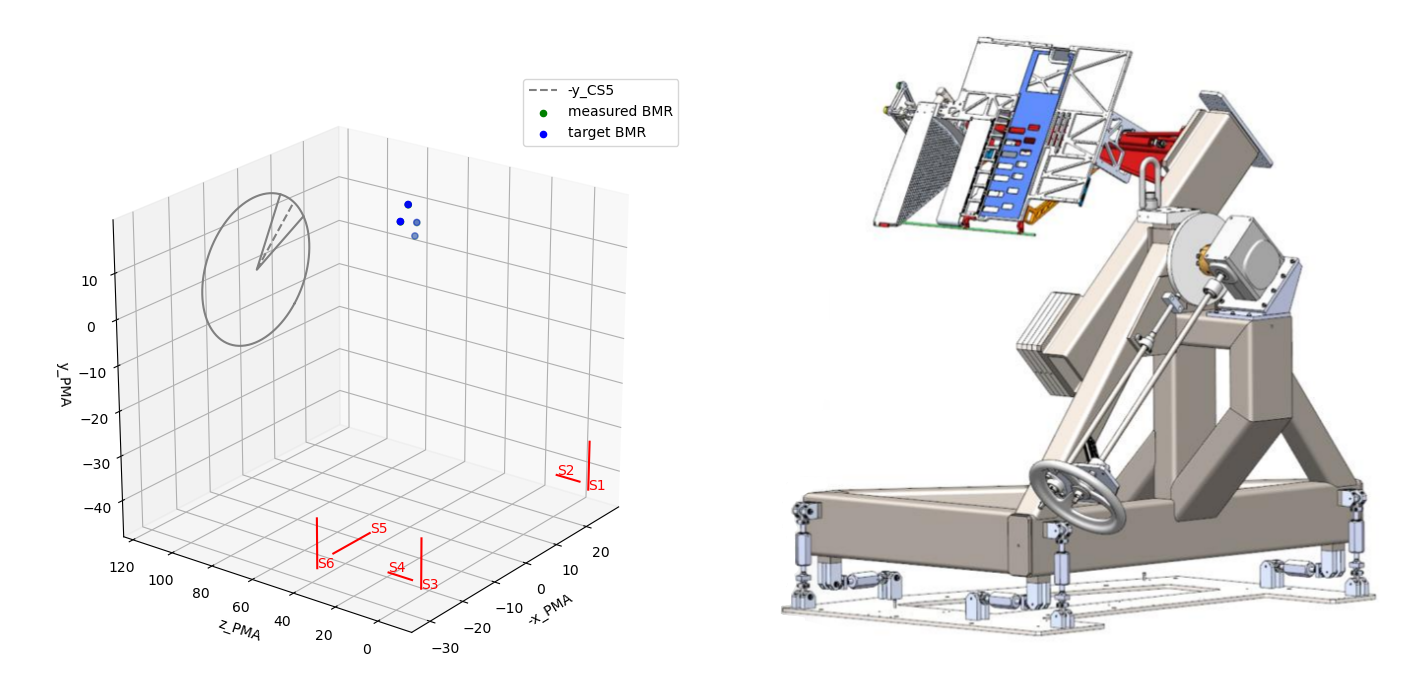
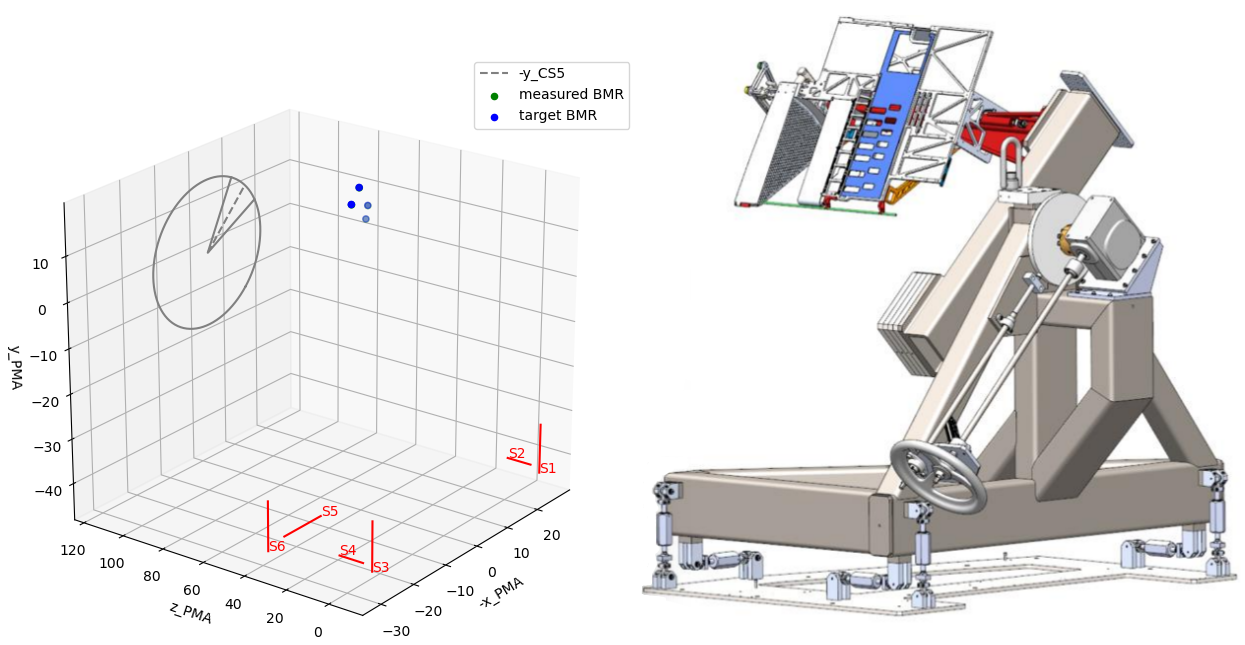
more diagrams

diff --git a/PAC.py b/PAC.py
@@ -243,13 +243,14 @@ def compute_target_bmr_guide_spikes_coords_mm(petal) :
         plt.xlabel("X_CS5 (mm)")
         plt.ylabel("Y_CS5 (mm)")
 
-        plt.figure("GS1")
-        bmr_GS1CS_mm = bmr_GS1CS_inch * inch2mm
-        plt.plot(bmr_GS1CS_mm[0],bmr_GS1CS_mm[1],"o",markersize=12,label="bmr")
-        plt.gca().set_aspect('equal', adjustable='box')
-        plt.grid()
-        plt.xlabel("X_GS1 (mm)")
-        plt.ylabel("Y_GS1 (mm)")
+        if 0 :
+            plt.figure("GS1")
+            bmr_GS1CS_mm = bmr_GS1CS_inch * inch2mm
+            plt.plot(bmr_GS1CS_mm[0],bmr_GS1CS_mm[1],"o",markersize=12,label="bmr")
+            plt.gca().set_aspect('equal', adjustable='box')
+            plt.grid()
+            plt.xlabel("X_GS1 (mm)")
+            plt.ylabel("Y_GS1 (mm)")
     return bmr_CS5_mm
 
 ######################################################################
@@ -443,11 +444,11 @@ inch2mm = 25.4
 
 
 # Petal Position (Per DESI-3596)
-petal = 0
+petal = 6
 
 # Which BMR (Ball Mount Refectors) mount plate is used. 3 choices
-bmr_type = "guide_spikes" # BMR plate mounted on the petal guide spikes for petal insertion procedure
-#bmr_type = "light_weight_red_leg" # BMR plate mounted at the tip of the red
+#bmr_type = "guide_spikes" # BMR plate mounted on the petal guide spikes for petal insertion procedure
+bmr_type = "light_weight_red_leg" # BMR plate mounted at the tip of the red
 #bmr_type = "heavy_weight_red_leg" # BMR plate mounted at the tip of the red with a weight matching that of a petal
 
 # Input BMR Locations (in CS5, will change input method later)
@@ -455,12 +456,26 @@ measured_bmr_CS5_inch = np.zeros((3,4))
 if bmr_type == "heavy_weight_red_leg" :
     measured_bmr_CS5_inch = np.zeros((3,5))
 
-measured_bmr_CS5_inch[:,0] = [3.3247, -16.5683, -55.9022]
-measured_bmr_CS5_inch[:,1] = [1.7563, -18.9263, -55.9158]
-measured_bmr_CS5_inch[:,2] = [-3.5547, -20.3330, -55.9186]
-measured_bmr_CS5_inch[:,3] = [-3.1565, -16.5614, -55.9040]
+bmr_labels=["B1","B2","B3","B4"]
 
-valid_bmr = (np.sum(measured_bmr_CS5_inch**2,axis=0)>0)
+# petal 0 (test of Van)
+# measured_bmr_CS5_inch[:,0] = [3.3247, -16.5683, -55.9022]
+# measured_bmr_CS5_inch[:,1] = [1.7563, -18.9263, -55.9158]
+# measured_bmr_CS5_inch[:,2] = [-3.5547, -20.3330, -55.9186]
+# measured_bmr_CS5_inch[:,3] = [-3.1565, -16.5614, -55.9040]
+
+# petal 6 solidworks test
+# measured_bmr_CS5_inch[:,0] = [-12.478,11.377,-55.906]
+# measured_bmr_CS5_inch[:,1] = [-12.595,14.207,-55.916]
+# measured_bmr_CS5_inch[:,2] = [-9.126,18.467,-55.909]
+# measured_bmr_CS5_inch[:,3] = [-7.231,15.181,-55.898]
+
+# petal 6 solidworks test after re-alignement
+measured_bmr_CS5_inch[:,0] = [-12.373,11.526,-55.892]
+measured_bmr_CS5_inch[:,1] = [-12.491,14.356,-55.910]
+measured_bmr_CS5_inch[:,2] = [-9.021,18.616,-55.922]
+measured_bmr_CS5_inch[:,3] = [-7.126,15.331,-55.905]
+# this validates the python code for the "guide spike" bmr
 
 # Options
 debug = True
@@ -468,6 +483,9 @@ plot  = True
 
 ######################################################################
 ######################################################################
+
+valid_bmr = (np.sum(measured_bmr_CS5_inch**2,axis=0)>0)
+print(valid_bmr)
 
 assert ( bmr_type in ["guide_spikes","light_weight_red_leg","heavy_weight_red_leg"] )
 
@@ -520,6 +538,9 @@ print("Struts deltas (inch):")
 for s,d in enumerate(strut_deltas_inch) :
     print("  {} {:+.3f}".format(struts_labels[s],d))
 
+print("Struts deltas (mm):")
+for s,d in enumerate(strut_deltas_inch) :
+    print("  {} {:+.3f}".format(struts_labels[s],d*inch2mm))
 
 predicted_new_bmr_PMA_inch = pma_adjust.apply(measured_bmr_PMA_inch)
 dist2_inch = np.sum((predicted_new_bmr_PMA_inch - target_bmr_PMA_inch)**2,axis=0)
@@ -540,6 +561,16 @@ print("=================================================")
 
 if plot :
     plt.figure("CS5")
+
+
+    xyz    = measured_bmr_CS5_inch*inch2mm
+    for b in range(measured_bmr_CS5_inch.shape[1]) :
+        if not valid_bmr[b]:
+            print("ball {} has not valid data".format(bmr_labels[b]))
+            continue
+        plt.plot(xyz[0,b],xyz[1,b],"o",color="k",alpha=0.5)
+        plt.text(xyz[0,b]+10,xyz[1,b]+10,bmr_labels[b],color="k")
+
     x_cs5=[]
     y_cs5=[]
     z_cs5=[]
@@ -589,6 +620,8 @@ if plot :
         ax.scatter3D(xyz[0],xyz[1],xyz[2],color="green",label="measured BMR")
         xyz=xyz2plot(target_bmr_PMA_inch)
         ax.scatter3D(xyz[0],xyz[1],xyz[2],color="blue",label="target BMR")
+        for b in range(4) :
+            ax.text3D(xyz[0,b],xyz[1,b],xyz[2,b],bmr_labels[b],color="blue")
 
         # focal plane
         t=np.linspace(0,2*np.pi,100)
